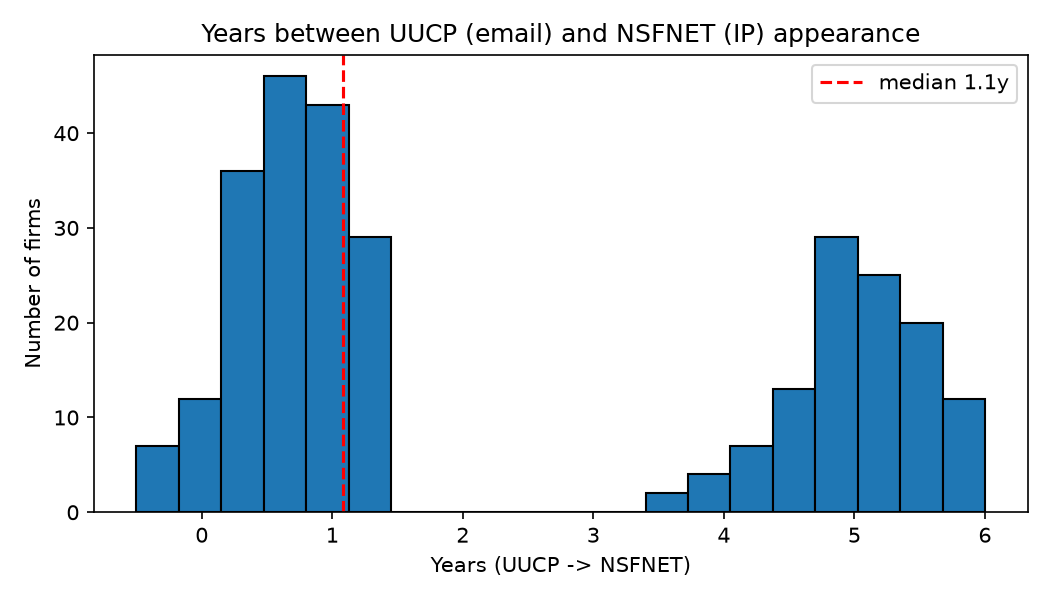
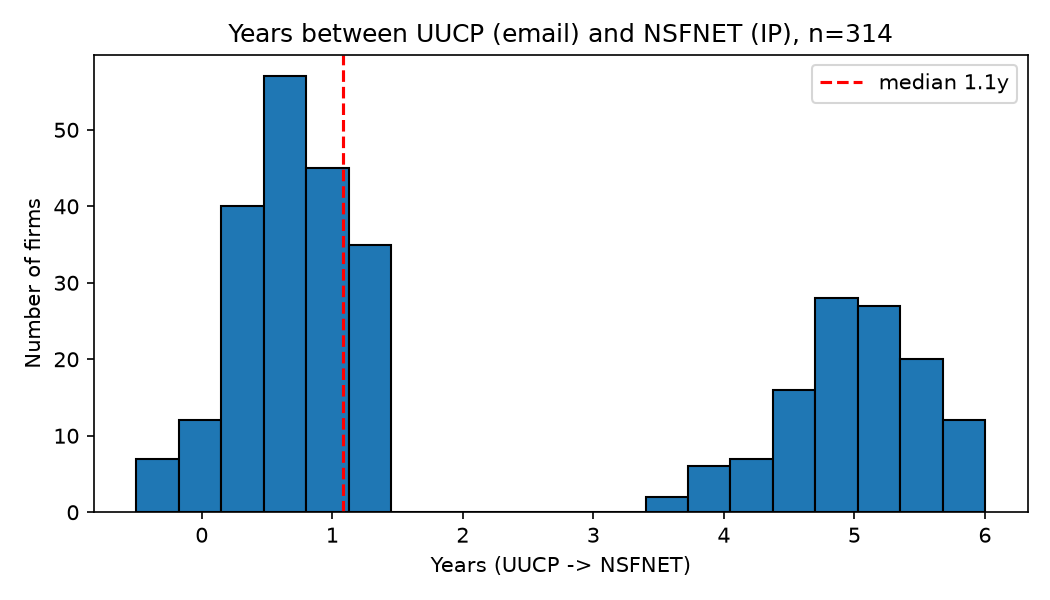
--

diff --git a/docs/dedup_analysis.md b/docs/dedup_analysis.md
@@ -83,3 +83,22 @@ Chose 0.1 for cross-source linking, applied to the firm set (academics excluded,
 since the few remaining false merges are same-template institutions).
 Conclusion: normalization does most of the work; LinkTransformer at 0.1 adds a
 small set of genuine variant merges (typos, &/and, singular/plural, abbreviations).
+
+## Cross-source firm linking (final)
+Method: LinkTransformer (all-MiniLM-L6-v2, agglomerative, threshold 0.1,
+blocked by country), applied on normalized firm names.
+
+- Exact-normalized matching: 10,500 unique firms
+- + LinkTransformer: 10,171 unique firms (329 additional merges, 3%)
+- Merges validated by inspection: coherent (Netcom spelling variants,
+  HP/Hewlett-Packard, Motorola divisions, &/and, singular/plural). No blobs.
+- Threshold choice: 0.1 chosen over 0.2 because 0.2 over-merged same-template
+  institutions (e.g., "Universidad de Murcia/Oviedo" wrongly grouped).
+
+Impact on the finding:
+- Multi-network firms: 285 (exact) -> 314 (LinkTransformer)
+- Email-before-IP finding ROBUST to method:
+  exact: 95.1% UUCP-first, median 1.1yr
+  LT:    95.5% UUCP-first, median 1.1yr
+Conclusion: normalization does most of the work; LinkTransformer adds a small
+set of genuine variant merges. The core finding does not depend on the method.
